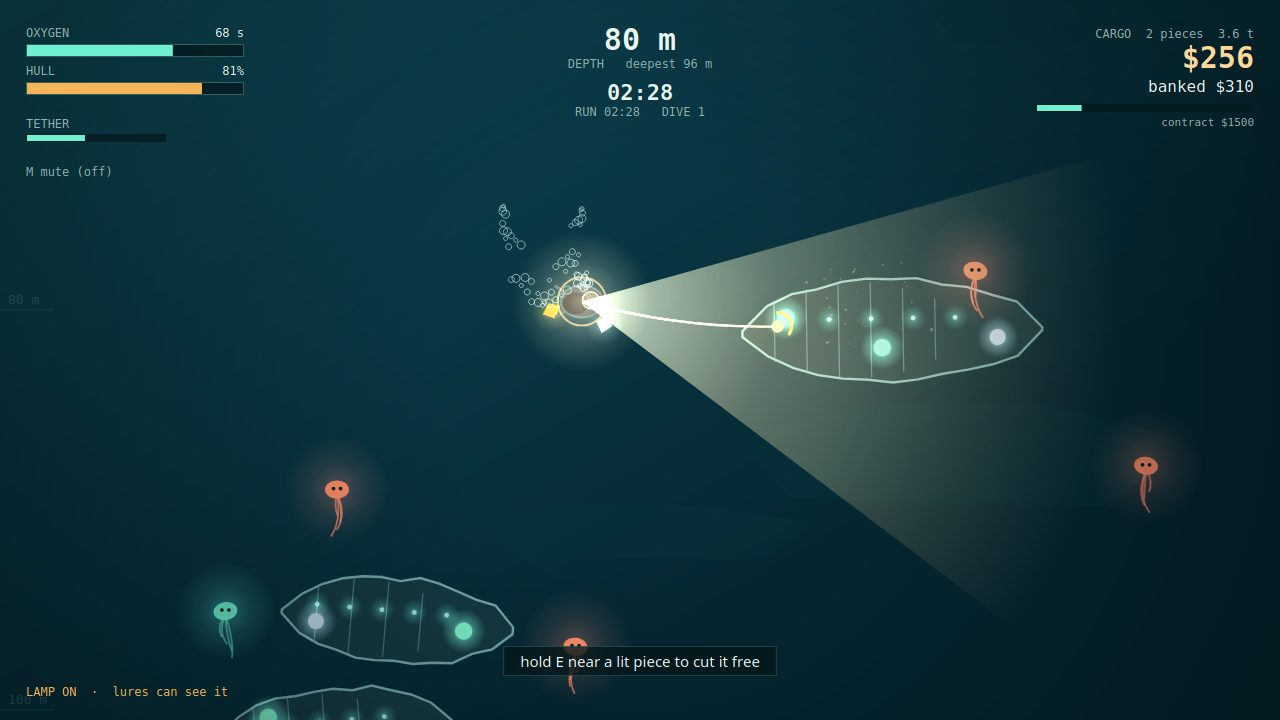
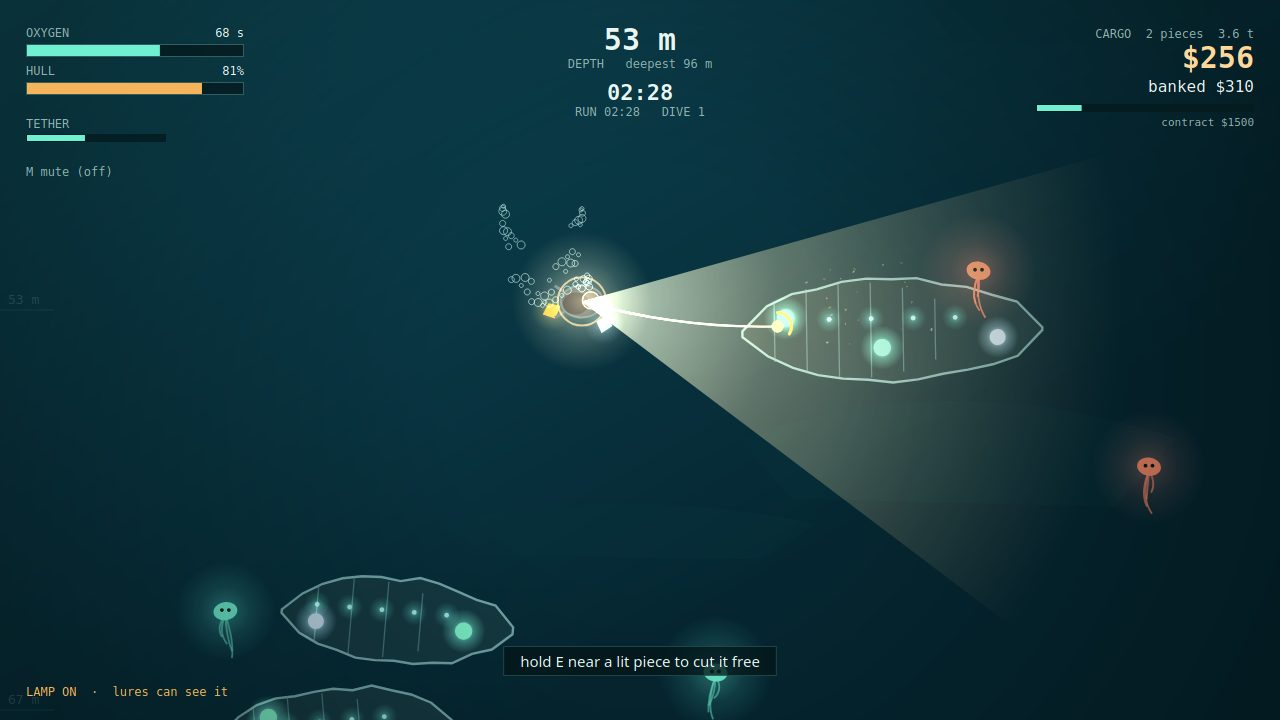
balance pass, cut progress per piece, local gate check and tuning probe; re-shot screenshots

diff --git a/game/src/config.js b/game/src/config.js
@@ -12,7 +12,7 @@ export const TRENCH = {
   width: 1600,
   surfaceY: -120,
   floorY: 4600,
-  pxPerMetre: 20,
+  pxPerMetre: 30,
 };
 
 export const PLAYER = {
@@ -22,20 +22,20 @@ export const PLAYER = {
   maxSpeed: 430,
   ballastRate: 0.62,
   /** Buoyancy pushes up when ballast is vented (0) and down when flooded (1). */
-  buoyancy: 900,
+  buoyancy: 1000,
   /** Extra downward pull per unit of carried cargo mass. */
   cargoSink: 46,
   /** How much cargo mass slows the horizontal thrust (1 = none, 0 = stopped). */
   cargoDrag: 0.06,
   hull: 100,
-  oxygen: 100,
+  oxygen: 110,
   /** Seconds a hit of invulnerability lasts, so one lure cannot chain-hit. */
-  mercy: 1.15,
+  mercy: 1.4,
 };
 
 export const OXYGEN = {
-  drain: 0.62,
-  drainPerMetre: 0.0125,
+  drain: 0.55,
+  drainPerMetre: 0.01,
   /** Surfacing refills the tank; this is the reserve taken on top for a fresh dive. */
   breathOnSurface: 0,
 };
@@ -76,13 +76,15 @@ export const WRECK = {
 export const LURE = {
   radius: 14,
   speed: 44,
-  chaseSpeed: 122,
+  chaseSpeed: 96,
   /** The lamp cone wakes a lure this far away; the silent-propeller upgrade cuts it. */
-  senseRange: 380,
-  damage: 17,
+  senseRange: 300,
+  damage: 12,
   knockback: 240,
   /** A lure keeps chasing for this long after the lamp goes out. */
-  memory: 2.4,
+  memory: 1.8,
+  /** After a hit the lure recoils and sulks, so a pack cannot chain-hit the diver. */
+  stun: 2.4,
   glow: 26,
 };
 
@@ -94,10 +96,10 @@ export const CURRENT = {
 
 export const SALVAGE = {
   kinds: [
-    { id: 'coil', label: 'copper coil', value: 30, mass: 1.0, colour: '#e08b3c', radius: 9 },
-    { id: 'glass', label: 'amber glass', value: 55, mass: 1.4, colour: '#f2b33d', radius: 10 },
-    { id: 'ingot', label: 'silver ingot', value: 95, mass: 2.2, colour: '#bfd7e6', radius: 11 },
-    { id: 'relic', label: 'trench relic', value: 180, mass: 2.8, colour: '#7ef0c8', radius: 12 },
+    { id: 'coil', label: 'copper coil', value: 36, mass: 1.0, colour: '#e08b3c', radius: 9 },
+    { id: 'glass', label: 'amber glass', value: 66, mass: 1.4, colour: '#f2b33d', radius: 10 },
+    { id: 'ingot', label: 'silver ingot', value: 110, mass: 2.2, colour: '#bfd7e6', radius: 11 },
+    { id: 'relic', label: 'trench relic', value: 210, mass: 2.8, colour: '#7ef0c8', radius: 12 },
   ],
   /** Which kinds a wreck of each depth tier carries, with weights. */
   tiers: [

diff --git a/game/src/hazards.js b/game/src/hazards.js
@@ -17,6 +17,7 @@ export function createLure(random, x, y) {
     vy: 0,
     awake: 0,
     hitCooldown: 0,
+    stun: 0,
     pulse: random() * Math.PI * 2,
     radius: LURE.radius,
     dead: false,
@@ -33,6 +34,7 @@ export function stepLures(lures, dt, time, player, lampOn, senseScale) {
     if (lure.dead) continue;
     lure.pulse += dt * 2.4;
     lure.hitCooldown = Math.max(0, lure.hitCooldown - dt);
+    lure.stun = Math.max(0, lure.stun - dt);
     const toPlayer = distance(lure.x, lure.y, player.x, player.y);
     const sense = LURE.senseRange * senseScale;
     if (lampOn && toPlayer < sense) lure.awake = LURE.memory;
@@ -40,7 +42,11 @@ export function stepLures(lures, dt, time, player, lampOn, senseScale) {
 
     let ax = 0;
     let ay = 0;
-    if (lure.awake > 0) {
+    if (lure.stun > 0) {
+      // Recoiling after a hit: it drifts away and will not chase for a moment.
+      ax = (lure.x - player.x) * 0.4 - lure.vx;
+      ay = (lure.y - player.y) * 0.4 - lure.vy;
+    } else if (lure.awake > 0) {
       const dx = player.x - lure.x;
       const dy = player.y - lure.y;
       const length = Math.hypot(dx, dy) || 1;
@@ -60,8 +66,12 @@ export function stepLures(lures, dt, time, player, lampOn, senseScale) {
     lure.y += lure.vy * dt;
 
     const hit = distance(lure.x, lure.y, player.x, player.y) < lure.radius + player.radius;
-    if (hit && lure.hitCooldown <= 0 && player.mercy <= 0) {
+    if (hit && lure.hitCooldown <= 0 && player.mercy <= 0 && lure.stun <= 0) {
       lure.hitCooldown = 0.8;
+      lure.stun = LURE.stun;
+      lure.awake = 0;
+      lure.vx += (lure.x - player.x) * 3;
+      lure.vy += (lure.y - player.y) * 3;
       events.push({ type: 'hit', x: lure.x, y: lure.y, damage: LURE.damage });
     }
   }

diff --git a/game/src/world.js b/game/src/world.js
@@ -288,9 +288,9 @@ function spawnAhead(world) {
     const x = 240 + world.random() * (TRENCH.width - 480);
     const wreck = createWreck(world.random, x, world.lastSpawnY, tier);
     world.wrecks.push(wreck);
-    const lures = tier >= 2 ? 2 : 1;
+    const lures = tier >= 3 ? 2 : 1;
     for (let index = 0; index < lures; index += 1) {
-      world.lures.push(createLure(world.random, x + (world.random() - 0.5) * 320, world.lastSpawnY + (world.random() - 0.5) * 260));
+      world.lures.push(createLure(world.random, x + (world.random() - 0.5) * 620, world.lastSpawnY + (world.random() - 0.5) * 340));
     }
     world.lastSpawnY += WRECK.minGap + world.random() * (WRECK.maxGap - WRECK.minGap);
   }

diff --git a/test/browser_test.py b/test/browser_test.py
@@ -88,7 +88,8 @@ def main():
             advance(0.2)
             state = debug()
             check("Space starts a dive", state["screen"] == "play", state["screen"])
-            check("dive starts on the surface with a full tank", state["depth"] < 5 and state["oxygen"] > 95, json.dumps(state))
+            check("dive starts on the surface with a full tank", state["depth"] < 5 and state["oxygen"] > 100, json.dumps(state))
+            start_oxygen = state["oxygen"]
 
             # The mechanic tests run in clear water: lures are spun up again for the hazard test.
             page.evaluate("() => { window.__lumen.world.lures = []; }")
@@ -97,8 +98,8 @@ def main():
             intent(ballast=1.0, thrust=0.0, grapple=False, cut=False)
             advance(3.0)
             descended = debug()
-            check("flooding ballast takes the diver down", descended["y"] > 300 and descended["depth"] > 15, json.dumps(descended))
-            check("oxygen drains while diving", descended["oxygen"] < 99, descended["oxygen"])
+            check("flooding ballast takes the diver down", descended["y"] > 300 and descended["depth"] > 10, json.dumps(descended))
+            check("oxygen drains while diving", descended["oxygen"] < start_oxygen - 1, f"{start_oxygen} -> {descended['oxygen']}")
 
             # --- lateral thrust ----------------------------------------------------------
             before_x = descended["x"]

diff --git a/README.md b/README.md
@@ -36,10 +36,12 @@ for byte the kit's). `/output` is the grader's path; `MAKEFUN_OUTPUT_DIR` stands
 ## Test it
 
 ```bash
-node test/logic.test.mjs                 # 19 headless fixed-step tests over the real simulation
-xvfb-run -a python3 test/browser_test.py # 28 real-browser tests (Playwright + Firefox, headed)
-xvfb-run -a python3 tools/capture.py     # re-shoot the four entry screenshots
-/usr/bin/python3 tools/verify_shots.py    # gate limits, luminance and a text preview per shot
+node test/logic.test.mjs                  # 19 headless fixed-step tests over the real simulation
+xvfb-run -a python3 test/browser_test.py  # 28 real-browser tests (Playwright + Firefox, headed)
+xvfb-run -a python3 tools/capture.py      # re-shoot the four entry screenshots
+/usr/bin/python3 tools/verify_shots.py     # gate limits, luminance and a text preview per shot
+node tools/gate_check.mjs                 # the gate rows, checked against out/ (run main.ts first)
+node tools/autoplay.mjs 16                # a naive bot plays 16 seeds: the tuning probe
 ```
 
 The browser tests and the capture script need the interpreter whose Playwright knows the
@@ -63,8 +65,8 @@ simulation through `window.__lumen` (fixed step, `?manual=1`), not a mock.
 
 ## The loop
 
-1. **Dive.** Oxygen is the clock: 0.62/s plus 0.0125/s per metre. Deeper wrecks pay more
-   (depth tiers value the same piece at ×1 to ×2.2) and cost more air.
+1. **Dive.** Oxygen is the clock: 0.55/s plus 0.01/s per metre, from a 110-second tank. Deeper
+   wrecks pay more (depth tiers value the same piece at ×1 to ×2.2) and cost more air.
 2. **Grapple.** The hook flies 560 px at 1550 px/s and bites a wreck. Once attached a spring
    pulls you toward the anchor; the wreck answers 18% of the pull. A tether stretched 250 px
    past its rest length snaps.
@@ -78,8 +80,14 @@ simulation through `window.__lumen` (fixed step, `?manual=1`), not a mock.
 6. **Close the contract** at $1,500, or lose the boat to the hull or the air. SPACE restarts.
 
 Hazards are deterministic so they can be learned: lures patrol a figure-eight and only chase
-when your lamp wakes them (they forget 2.4 s after it goes out), currents run in visible bands
-every 620 px, and collapsing hulls announce themselves with a shake and a warning line.
+when your lamp wakes them (they forget 1.8 s after it goes out, and a lure that lands a hit
+recoils for 2.4 s so a pack cannot chain-hit you), currents run in visible bands every 620 px,
+and collapsing hulls announce themselves with a shake and a warning line.
+
+The balance was set with `tools/autoplay.mjs`: a deliberately naive bot — nearest wreck,
+grapple, cut three, dodge, surface at 30% air — closes the contract on about one seed in five
+and averages a few hundred dollars. A player who plans a route does better; the game never
+becomes free.
 
 ## Design and structure
 
